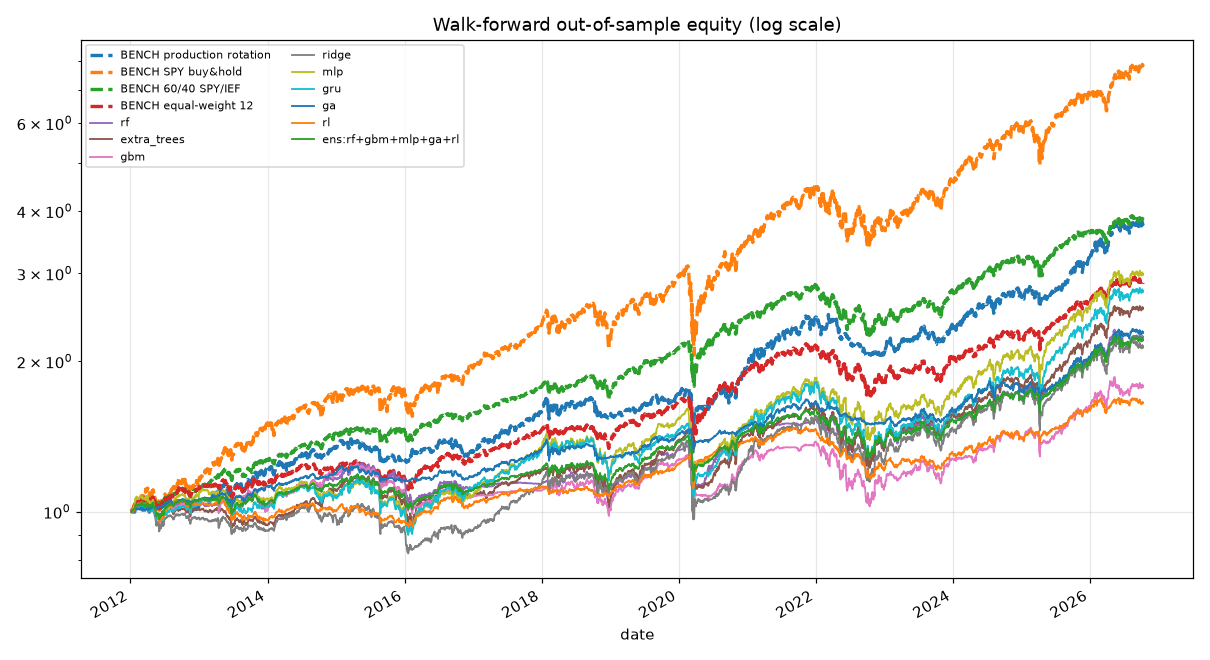
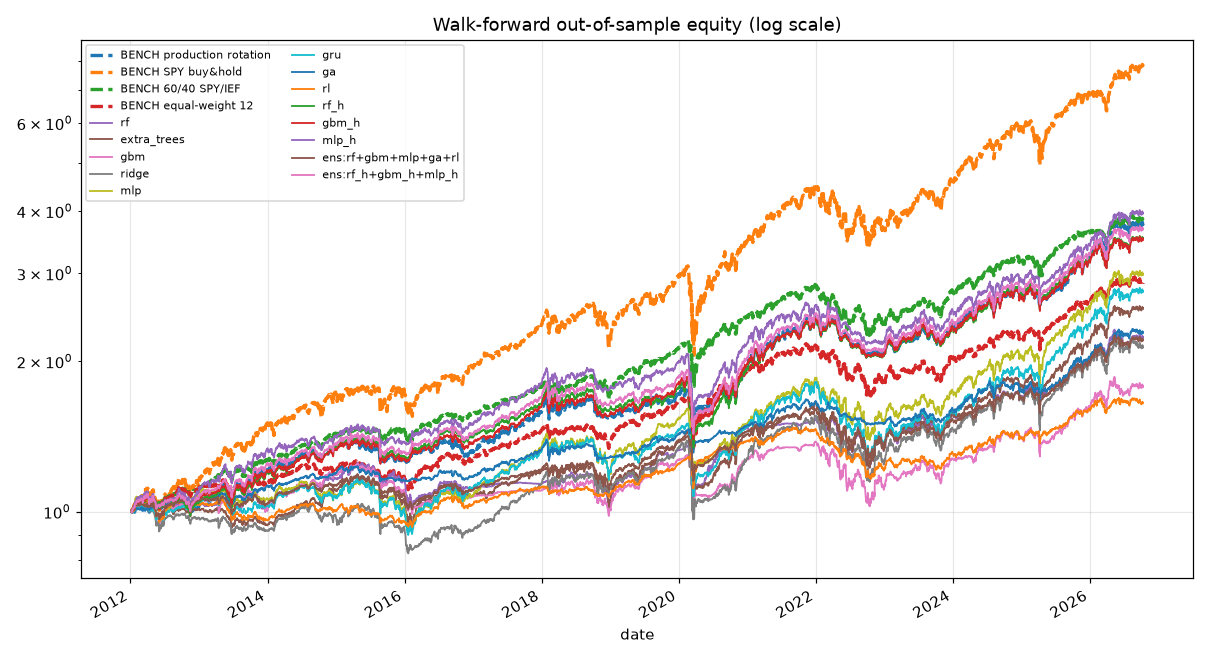
Add constrained-ML hybrid strategies, lab report and docs

diff --git a/ibkr_strategy/lab/README.md b/ibkr_strategy/lab/README.md
@@ -1,0 +1,102 @@
+# Strategy lab
+
+A leak-free tester and builder for ML / GA / RL allocation strategies on the IBKR ETF universe. Every strategy,
+whatever its algorithm, is run through the *same* pipeline so results are comparable:
+
+1. **Walk-forward**: expanding training window, retrained every 52 weeks (configurable), with the label window purged
+   (a training row is only used once its 4-week forward return has fully elapsed). First model trains on 5 years.
+2. **Same portfolio construction** for score-based models (top 5, inverse-vol, idle slots to defensives/cash) and the
+   same 4-week weight smoothing for every candidate.
+3. **Same execution/cost engine** as the production research: daily drift, 5 bps per unit turnover, trade at the decision close.
+4. **Honest statistics**: information coefficient (with overlap-adjusted t-stat), paired block-bootstrap probability of beating the
+   production rotation and SPY, **deflated Sharpe ratio** (penalises best-of-N selection), and a **null distribution** of
+   unfitted random rotation rule sets.
+
+```bash
+python -m lab.run                         # everything, ~6 min on 4 cores (add --cache to reuse fits)
+python -m lab.run --list
+python -m lab.run --strategies rf_h,gbm_h,ga,ens:rf_h+gbm_h+ga --oos-start 2012-01-01
+```
+
+Outputs `lab/reports/leaderboard.{md,csv}` and `equity.png`.
+
+## Strategies
+
+| Name | Family | What it does |
+|---|---|---|
+| `rf`, `extra_trees` | Random forest / extra-trees | Shallow, heavily regularised; predict 4-week excess return per asset |
+| `gbm` | Gradient boosting (LightGBM) | 7 leaves, 200 rounds, subsampling, L2 |
+| `ridge` | Linear baseline | Tells you whether non-linearity helps at all |
+| `mlp`, `gru` | Deep learning (PyTorch) | MLP on 22 features; GRU on 64 days of vol-scaled returns; dropout, weight decay, early stopping, seed ensembles |
+| `ga` | Genetic algorithm | Evolves the rules (lookback blend, top-k, thresholds, trend filter, weighting, defensive fill); re-evolved every retrain; final book averages the top distinct genomes of 3 independent runs |
+| `rl` | Policy-gradient RL (REINFORCE + baseline) | Shared asset-scoring network + cash head, Gaussian exploration, mean-variance reward net of costs, 3 seeds |
+| `rf_h`, `gbm_h`, `mlp_h` | Hybrids | Train on *cross-sectional rank* targets and keep the production absolute-momentum rule as a risk-off gate: ML only chooses *which* assets, the rule decides *whether* to be invested |
+| `ens:a+b+c` | Ensemble | Equal-weight average of the members' target weights |
+
+Features (22): 1/5/21/63/126/252-day returns, 21/63-day vol and ratio, drawdown from 252d high, distance to 50/200d SMA,
+RSI, cross-sectional momentum rank/z-score, five market-regime features (SPY vol, vol ratio, 12m return, drawdown;
+bond-vs-stock momentum) and asset-class flags. All are computed strictly from data up to the decision close
+(tested by mutating future prices).
+
+## Results (out-of-sample 2012-01 to 2026-10, 771 weeks, 15 retrains)
+
+| Strategy | CAGR | Vol | Sharpe | MaxDD | IC (t) | DSR | P(Sharpe > production) | P(> SPY) |
+|---|---|---|---|---|---|---|---|---|
+| *Production rotation (hand-built)* | 9.4% | 10.7% | 0.78 | -17.5% | | | | |
+| *SPY buy & hold* | 15.0% | 16.5% | 0.85 | -33.7% | | | | |
+| *60/40* | 9.6% | 9.8% | 0.86 | -21.1% | | | | |
+| rf / extra_trees / gbm / ridge | 4-7% | 11-13% | 0.29-0.46 | -22 to -31% | 0.01-0.02 (<1) | 0.5-0.76 | 0.01-0.04 | 0.00 |
+| mlp / gru | 7-8% | 13-14% | 0.49-0.51 | -28 to -29% | 0.04-0.05 (1.4-1.6) | 0.80 | 0.04-0.05 | 0.00 |
+| ga | 5.8% | 7.2% | 0.64 | **-11.9%** | | 0.92 | 0.11 | 0.21 |
+| rl | 3.5% | 7.4% | 0.32 | -21.3% | | 0.60 | 0.01 | 0.00 |
+| rf_h | 8.9% | 11.2% | 0.70 | -26.4% | 0.09 (2.8) | 0.95 | 0.21 | 0.21 |
+| gbm_h | 8.9% | 10.9% | 0.72 | -24.9% | 0.08 (2.4) | 0.95 | 0.23 | 0.24 |
+| mlp_h | 9.8% | 11.7% | 0.75 | -25.6% | **0.11 (3.3)** | 0.96 | 0.31 | 0.26 |
+| ens:rf_h+gbm_h+mlp_h | 9.3% | 11.2% | 0.73 | -25.7% | | 0.96 | 0.28 | 0.26 |
+
+### What the lab found (read this before trusting any row)
+
+- **Plain ML does not work here.** Unconstrained tree, boosting, ridge, MLP, GRU and RL models all *underperformed* even
+  equal-weight and bought nothing statistically distinguishable from noise (IC t-stats < 2). The data is ~20 years x 12
+  assets; a flexible model has far too little signal to learn from. Plain momentum alone has IC 0.068 (t 2.1) on this
+  panel, better than every plain ML model.
+- **ML added value only when constrained by prior knowledge.** Keeping the momentum risk-off rule and training on
+  rank targets raised IC to 0.08-0.11 and lifted Sharpe from ~0.4 to ~0.7. That is the useful, honest finding: ML is a
+  better *ranker* than the simple 1-3-6-12 average, but it still did not beat the hand-built rule as a *portfolio*
+  (P(beat) 0.2-0.3, deeper drawdowns).
+- **Nothing beat SPY in this sample's Sharpe** (a strong 2012-2026 bull market); the lower-drawdown strategies
+  are the GA (-11.9%) and the production rotation.
+- **Selection caveats.** The hybrids were designed *after* seeing round-1 results (declared as extra trials; the DSR
+  counts 13 strategies, not my design iterations). The production rotation was designed with knowledge of this period, so
+  it is an optimistic baseline that the ML models are *not* given. Treat `mlp_h`'s IC as promising, not proven.
+- GA and RL training-window fitness was far higher than out-of-sample results (RL train Sharpe ~1.9 vs 0.3 OOS): the
+  textbook overfitting signature, and why every result above is walk-forward.
+- **Leak detector**: `tests/test_lab.py` runs the models on driftless random-walk prices and requires |IC| < 0.06;
+  a leaking harness would show a large IC.
+
+## Building your own
+
+```python
+import numpy as np
+from lab.models import register
+
+@register("my_strategy")
+class MyStrategy:
+    name = "my_strategy"
+    def fit(self, mkt, train_rows):          # train_rows: week indices whose labels are fully observed
+        ...
+    def weights(self, mkt, rows):            # -> [len(rows), mkt.N] long-only weights, sum <= 1 (rest = cash)
+        ...
+# python -m lab.run --strategies my_strategy,ens:my_strategy+mlp_h
+```
+
+`mkt` (`lab.data.Market`) exposes features `X[t, asset, feature]`, forward excess returns `y`, next-week returns
+`r1`, volatility, momentum, trend flags and raw return sequences, all indexed by weekly decision date.
+Anything registered gets the same walk-forward, costs, significance tests and report. Note the multiple-testing
+warning: every extra strategy you try raises the bar the deflated Sharpe applies.
+
+## Not wired to live trading
+
+None of these models is connected to `live/trader.py`. By the lab's own evidence, none has earned a place in front of
+the production rotation yet; `mlp_h`/`ens:rf_h+gbm_h+mlp_h` are the candidates to re-test on genuinely new data
+(for example by running the lab again in six months with `--oos-start` unchanged and checking whether IC holds).

diff --git a/ibkr_strategy/lab/reports/leaderboard.md b/ibkr_strategy/lab/reports/leaderboard.md
@@ -1,6 +1,6 @@
 # Strategy lab leaderboard
 
-Out-of-sample 2012-01-06 to 2026-10-09 (771 weekly decisions), retrained every 52 weeks on an expanding window with a 5-week purge. Costs 5.0 bps/turnover, execution at the decision close, 4-week weight smoothing for all candidates. Runtime 321s.
+Out-of-sample 2012-01-06 to 2026-10-09 (771 weekly decisions), retrained every 52 weeks on an expanding window with a 5-week purge. Costs 5.0 bps/turnover, execution at the decision close, 4-week weight smoothing for all candidates. Runtime 64s.
 
 | strategy | CAGR | Vol | Sharpe | Sortino | MaxDD | Calmar | TO/yr | IC | IC_t | DSR | P(>prod) | P(>SPY) | pct_vs_random |
 |---|---|---|---|---|---|---|---|---|---|---|---|---|---|
@@ -8,17 +8,21 @@ Out-of-sample 2012-01-06 to 2026-10-09 (771 weekly decisions), retrained every 5
 | BENCH SPY buy&hold | 15.0% | 16.5% | 0.85 | 1.04 | -33.7% | 0.45 | 0.07 |  |  |  |  |  |  |
 | BENCH 60/40 SPY/IEF | 9.6% | 9.8% | 0.86 | 1.08 | -21.1% | 0.46 | 0.50 |  |  |  |  |  |  |
 | BENCH equal-weight 12 | 7.4% | 9.7% | 0.65 | 0.83 | -21.6% | 0.34 | 0.70 |  |  |  |  |  |  |
-| rf | 5.6% | 11.3% | 0.42 | 0.50 | -21.6% | 0.26 | 11.04 | 0.02 | 0.62 | 0.84 | 0.04 | 0.00 | 0.00 |
-| extra_trees | 6.6% | 12.9% | 0.46 | 0.55 | -27.7% | 0.24 | 10.86 | 0.02 | 0.63 | 0.87 | 0.04 | 0.00 | 0.01 |
-| gbm | 4.0% | 11.5% | 0.29 | 0.34 | -25.8% | 0.16 | 11.26 | 0.01 | 0.25 | 0.68 | 0.01 | 0.00 | 0.00 |
-| ridge | 5.3% | 13.3% | 0.36 | 0.42 | -30.5% | 0.17 | 10.71 | 0.01 | 0.43 | 0.77 | 0.01 | 0.00 | 0.00 |
-| mlp | 7.7% | 13.9% | 0.51 | 0.63 | -28.2% | 0.27 | 7.97 | 0.05 | 1.61 | 0.90 | 0.05 | 0.00 | 0.07 |
-| gru | 7.2% | 13.1% | 0.49 | 0.60 | -29.2% | 0.24 | 10.05 | 0.04 | 1.40 | 0.89 | 0.04 | 0.00 | 0.05 |
-| ga | 5.8% | 7.2% | 0.64 | 0.77 | -11.9% | 0.49 | 5.13 |  |  | 0.97 | 0.11 | 0.21 | 0.39 |
-| rl | 3.5% | 7.4% | 0.32 | 0.43 | -21.3% | 0.16 | 6.14 |  |  | 0.75 | 0.01 | 0.00 | 0.00 |
-| ens:rf+gbm+mlp+ga+rl | 5.5% | 9.3% | 0.48 | 0.59 | -20.2% | 0.27 | 6.31 |  |  | 0.89 | 0.03 | 0.01 | 0.03 |
+| rf | 5.6% | 11.3% | 0.42 | 0.50 | -21.6% | 0.26 | 11.04 | 0.02 | 0.62 | 0.72 | 0.04 | 0.00 | 0.00 |
+| extra_trees | 6.6% | 12.9% | 0.46 | 0.55 | -27.7% | 0.24 | 10.86 | 0.02 | 0.63 | 0.76 | 0.04 | 0.00 | 0.01 |
+| gbm | 4.0% | 11.5% | 0.29 | 0.34 | -25.8% | 0.16 | 11.26 | 0.01 | 0.25 | 0.52 | 0.01 | 0.00 | 0.00 |
+| ridge | 5.3% | 13.3% | 0.36 | 0.42 | -30.5% | 0.17 | 10.71 | 0.01 | 0.43 | 0.62 | 0.01 | 0.00 | 0.00 |
+| mlp | 7.7% | 13.9% | 0.51 | 0.63 | -28.2% | 0.27 | 7.97 | 0.05 | 1.61 | 0.81 | 0.05 | 0.00 | 0.07 |
+| gru | 7.2% | 13.1% | 0.49 | 0.60 | -29.2% | 0.24 | 10.05 | 0.04 | 1.40 | 0.80 | 0.04 | 0.00 | 0.05 |
+| ga | 5.8% | 7.2% | 0.64 | 0.77 | -11.9% | 0.49 | 5.13 |  |  | 0.92 | 0.11 | 0.21 | 0.39 |
+| rl | 3.5% | 7.4% | 0.32 | 0.43 | -21.3% | 0.16 | 6.14 |  |  | 0.60 | 0.01 | 0.00 | 0.00 |
+| rf_h | 8.9% | 11.2% | 0.70 | 0.86 | -26.4% | 0.34 | 8.29 | 0.09 | 2.79 | 0.95 | 0.21 | 0.21 | 0.73 |
+| gbm_h | 8.9% | 10.9% | 0.72 | 0.88 | -24.9% | 0.36 | 8.79 | 0.08 | 2.43 | 0.95 | 0.23 | 0.24 | 0.80 |
+| mlp_h | 9.8% | 11.7% | 0.75 | 0.94 | -25.6% | 0.38 | 7.12 | 0.11 | 3.29 | 0.96 | 0.31 | 0.26 | 0.90 |
+| ens:rf+gbm+mlp+ga+rl | 5.5% | 9.3% | 0.48 | 0.59 | -20.2% | 0.27 | 6.31 |  |  | 0.79 | 0.03 | 0.01 | 0.03 |
+| ens:rf_h+gbm_h+mlp_h | 9.3% | 11.2% | 0.73 | 0.90 | -25.7% | 0.36 | 7.40 |  |  | 0.96 | 0.28 | 0.26 | 0.85 |
 
-Column guide: `DSR` = deflated Sharpe (probability true Sharpe > 0 after best-of-9 selection, >0.95 is convincing); `P(>prod)`/`P(>SPY)` = block-bootstrap probability that the Sharpe beats the production rotation / SPY (0.5 = coin flip, >0.95 = strong); `IC` = mean rank correlation of predictions with realised 4-week excess returns (`IC_t` uses the overlap-adjusted sample); `pct_vs_random` = share of 150 unfitted random rotation rule sets with a lower Sharpe (random sets: median 0.66, 90th pct 0.75).
+Column guide: `DSR` = deflated Sharpe (probability true Sharpe > 0 after best-of-13 selection, >0.95 is convincing); `P(>prod)`/`P(>SPY)` = block-bootstrap probability that the Sharpe beats the production rotation / SPY (0.5 = coin flip, >0.95 = strong); `IC` = mean rank correlation of predictions with realised 4-week excess returns (`IC_t` uses the overlap-adjusted sample); `pct_vs_random` = share of 150 unfitted random rotation rule sets with a lower Sharpe (random sets: median 0.66, 90th pct 0.75).
 
 ## Calendar-year returns (%)
 
@@ -36,4 +40,8 @@ Column guide: `DSR` = deflated Sharpe (probability true Sharpe > 0 after best-of
 | gru | 4.0 | -1.3 | 3.7 | -6.3 | 11.5 | 18.5 | -8.0 | 20.1 | 1.8 | 22.0 | -24.4 | 17.1 | 17.0 | 25.5 | 17.7 |
 | ga | 5.7 | 6.9 | 5.6 | -3.3 | 1.7 | 13.3 | -3.1 | 10.8 | 4.5 | 11.6 | -9.8 | 7.2 | 7.9 | 16.4 | 13.2 |
 | rl | 3.6 | -7.2 | 4.3 | -4.8 | 8.4 | 8.4 | -3.2 | 14.6 | 11.7 | 5.2 | -16.9 | 8.0 | 6.8 | 13.7 | 3.9 |
+| rf_h | 4.8 | 15.0 | 11.0 | -3.8 | 9.4 | 16.8 | -2.1 | 9.8 | 9.7 | 24.8 | -14.6 | 13.0 | 15.9 | 17.4 | 11.0 |
+| gbm_h | 6.4 | 14.0 | 9.5 | -4.3 | 7.5 | 18.6 | -3.1 | 14.7 | 10.0 | 22.5 | -14.7 | 13.3 | 13.3 | 18.3 | 11.6 |
+| mlp_h | 9.9 | 22.0 | 5.0 | -2.3 | 8.6 | 20.8 | -1.8 | 12.5 | 9.5 | 18.2 | -14.8 | 15.3 | 13.6 | 18.3 | 16.5 |
 | ens:rf+gbm+mlp+ga+rl | 5.5 | -1.7 | 8.7 | -4.3 | 2.4 | 10.1 | -6.3 | 21.0 | 5.5 | 10.2 | -15.0 | 12.4 | 9.9 | 17.9 | 11.6 |
+| ens:rf_h+gbm_h+mlp_h | 7.1 | 17.0 | 8.5 | -3.4 | 8.6 | 18.8 | -2.3 | 12.4 | 9.8 | 21.9 | -14.7 | 13.9 | 14.3 | 18.1 | 13.1 |

diff --git a/ibkr_strategy/README.md b/ibkr_strategy/README.md
@@ -86,7 +86,7 @@ from the Yahoo CSVs (the repo's `Data/` is not modified).
 
 ```bash
 python -m venv .venv && source .venv/bin/activate && pip install -r requirements.txt
-pytest tests -q                                   # 39 tests, no network or IBKR needed
+pytest tests -q                                   # 56 tests, no network or IBKR needed
 
 # research (needs network once)
 python research/fetch_data.py && python research/run_final_eval.py
@@ -125,6 +125,13 @@ The LEAN algorithm is ready for `live-interactive`. The IB brokerage plugin is a
 (`lean live deploy --brokerage "Interactive Brokers"`) or place its build in `Launcher/Plugins`, and set the `ib-*`
 keys in `Launcher/config.json`.
 
+## Strategy lab (ML / GA / RL)
+
+`lab/` is a leak-free walk-forward tester and builder for random forests, gradient boosting, MLP/GRU deep nets, a genetic
+algorithm, a policy-gradient RL agent and ensembles, with deflated-Sharpe and bootstrap significance tests. Headline
+finding: unconstrained ML did **not** beat the hand-built rotation out-of-sample; ML only helped as a constrained ranker.
+See [`lab/README.md`](lab/README.md) for results and how to add your own strategy. `python -m lab.run`.
+
 ## Layout
 
 ```
@@ -132,5 +139,6 @@ momentum_rotation/   config, stateless signals, order sizing (pure functions, fu
 research/            data download, engine, sweeps, final evaluation, LEAN cross-check
 lean/                LEAN algorithm, data builder, backtest runner
 live/                IBKR broker adapter and weekly rebalancer
-tests/               signal parity with research, no-lookahead, order planning, safety guards, IBKR adapter
+lab/                 walk-forward ML/GA/RL strategy tester and builder (see lab/README.md)
+tests/               signal parity, no-lookahead, order planning, safety guards, IBKR adapter, lab leak detector
 ```
